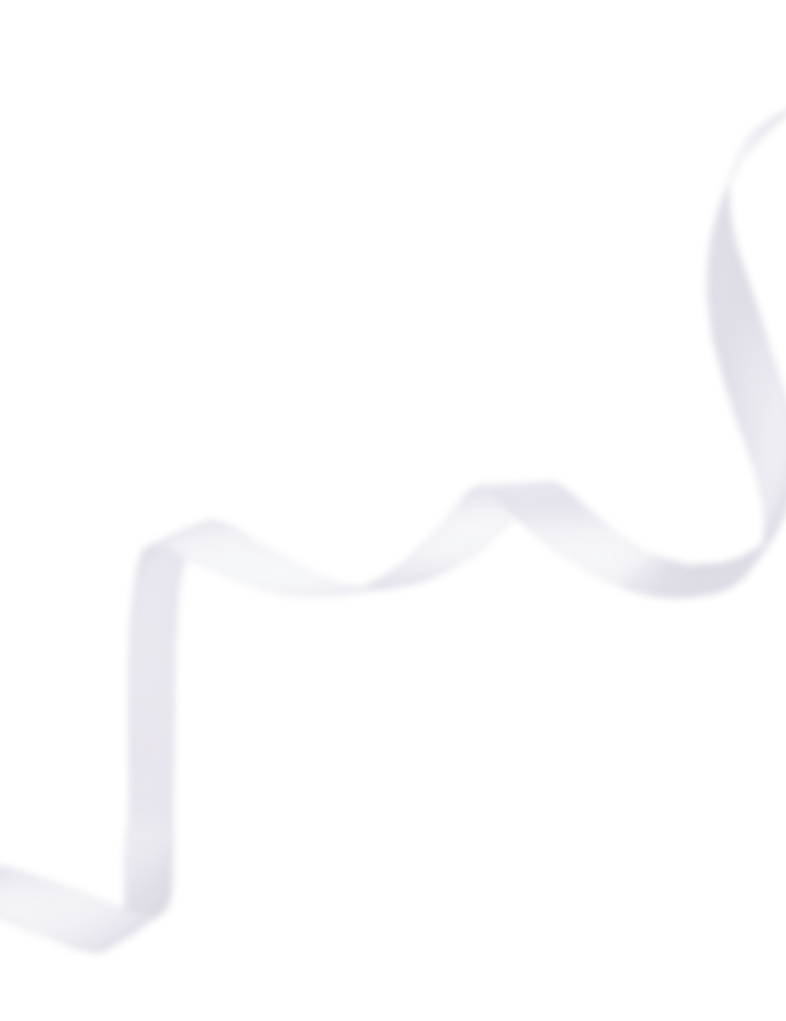
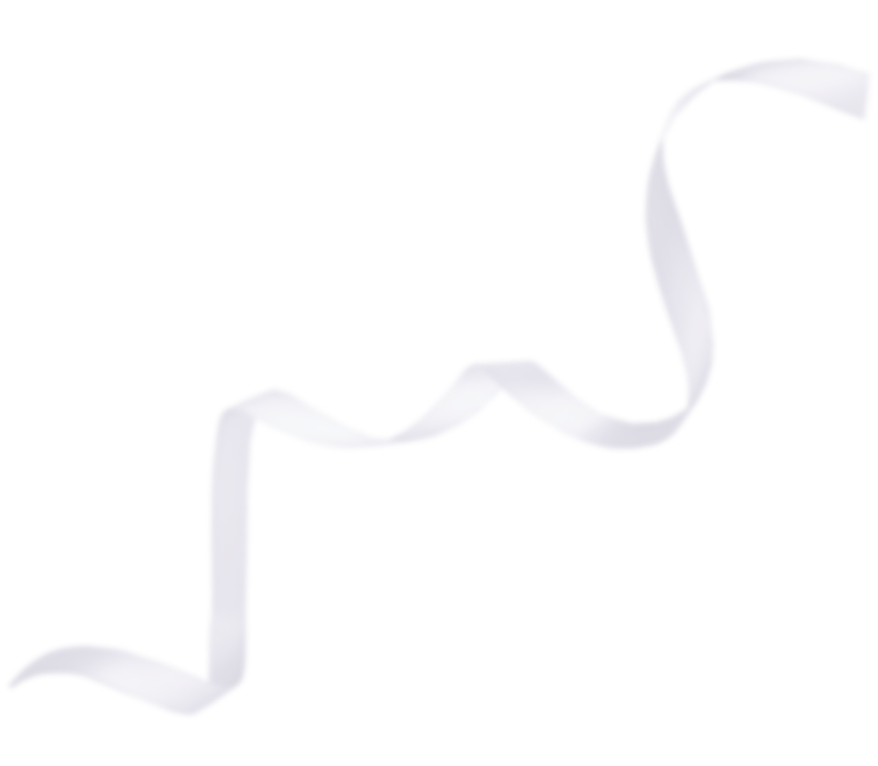
fix

diff --git a/docs/css/styles.css b/docs/css/styles.css
@@ -55,63 +55,6 @@ body {
     object-fit: contain;
 }
 
-.bg-image-1 {
-    width: 223.2px;
-    height: 279.05px;
-    top: 470px;
-    left: calc(50% - 225px);
-    transform: rotate(0deg);
-    z-index: -1;
-}
-
-.bg-image-2 {
-    width: 546.15px;
-    height: 465.1px;
-    top: 700px;
-    left: calc(50% - 285px);
-    transform: rotate(0deg);
-    backdrop-filter: blur(4.3px);
-    z-index: -10;
-}
-
-.bg-image-3 {
-    width: 400px;
-    height: 1400px;
-    position: absolute;
-    top: 690px;
-    left: calc(50% + -200px);
-    transform: rotate(0);
-    z-index: 999;
-    pointer-events: none;
-}
-
-/* Фоновые изображения под контентом */
-.background-decorations-bottom {
-    position: absolute;
-    top: 0;
-    left: 50%;
-    transform: translateX(-50%);
-    width: 100vw;
-    height: 100%;
-    pointer-events: none;
-    z-index: -1;
-    overflow: hidden;
-}
-
-/* Фоновые изображения поверх контента */
-.background-decorations-top {
-    position: absolute;
-    top: 0;
-    left: 50%;
-    transform: translateX(-50%);
-    width: 100vw;
-    height: 100%;
-    pointer-events: none;
-    z-index: 999;
-    overflow: hidden;
-}
-
-/* Главный контент */
 .main-content {
     width: 100%;
     max-width: 390px;
@@ -121,12 +64,54 @@ body {
     z-index: 1;
 }
 
+.background-decorations-bottom,
+.background-decorations-top {
+    position: absolute;
+    width: 100%;
+    height: 100%;
+    pointer-events: none;
+}
+
+.bg-image-1 {
+    position: absolute;
+    width: 223px;
+    height: 279px;
+    top: -90px;
+    left: -20%;
+    z-index: -1;
+    
+}
+
+.bg-image-2 {
+    position: absolute;
+    width: 546px;
+    height: 465px;
+    top: 70px;
+    right: -70px;
+    transform: rotate(0deg);
+    backdrop-filter: blur(4.3px);
+    z-index: -2;
+}
+
+.bg-image-3 {
+    position: absolute;
+    width: 400px;
+    height: 1400px;
+    top: -430px;
+    left: -30px;
+    transform: rotate(0);
+    z-index: 2;
+}
+
 /* Шапка */
 .header-container {
     width: 100vw;
     justify-self: center;
     position: relative;
     margin-bottom: 30px;
+    display: grid;
+    justify-items: center;
+    overflow: visible;
 }
 
 .header-image {
@@ -135,6 +120,7 @@ body {
     object-fit: contain;
     display: block;
     filter: grayscale(100%);
+    position: relative;
 }
 
 .header-names {
@@ -176,8 +162,9 @@ body {
 
 /* Текст приглашения */
 .invitation-text {
-    text-align: center;
+    position: relative;
     margin-bottom: 40px;
+    overflow: visible;
 }
 
 .invitation-title {
@@ -253,6 +240,7 @@ body {
     margin: 0 auto 40px;
     position: relative;
     z-index: 1;
+    overflow: visible;
 }
 
 .calendar-header {

diff --git a/docs/index.html b/docs/index.html
@@ -9,26 +9,18 @@
     <link href="https://fonts.googleapis.com/css2?family=Andika&display=swap" rel="stylesheet">
 </head>
 <body>
-    <div class="background-decorations-bottom">
-        <img src="images/bg_images/bg_image1.png" alt="" class="bg-image bg-image-1">
-        <img src="images/bg_images/bg_image2.png" alt="" class="bg-image bg-image-2">
-    </div>
-
-    <div class="background-decorations-top">
-        <img src="images/bg_images/bg_image3.png" alt="" class="bg-image bg-image-3">
-    </div>
-
-    <div class="header-container">
-        <img src="images/we.png" alt="Владислав и Лилиана" class="header-image">
-        <div class="header-names">
-            <span class="name name-left">ВЛАДИСЛАВ</span>
-            <span class="name-and">&</span>
-            <span class="name name-right">ЛИЛИАНА</span>
-        </div>
-    </div>
-
     <div class="main-content">
+        <div class="header-container">
+            <img src="images/we.png" alt="Владислав и Лилиана" class="header-image">
+            <div class="header-names">
+                <span class="name name-left">ВЛАДИСЛАВ</span>
+                <span class="name-and">&</span>
+                <span class="name name-right">ЛИЛИАНА</span>
+            </div>
+        </div>
+
         <section class="invitation-text">
+            <img src="images/bg_images/bg_image1.png" alt="" class="bg-image bg-image-1">
             <h1 class="invitation-title">
                 <span class="dear">Дорогие</span>
                 <span class="names">Анжела<br>и Рамиль</span>
@@ -40,6 +32,7 @@
                 трогательный и счастливый день, который
                 станет началом нашей новой истории.
             </p>
+            <img src="images/bg_images/bg_image2.png" alt="" class="bg-image bg-image-2">
         </section>
 
         <div class="wedding-date">11.08.2025</div>
@@ -108,6 +101,7 @@
                     <div class="calendar-day weekend">31</div>
                 </div>
             </div>
+            <img src="images/bg_images/bg_image3.png" alt="" class="bg-image bg-image-3">
         </section>
     </div>
 
